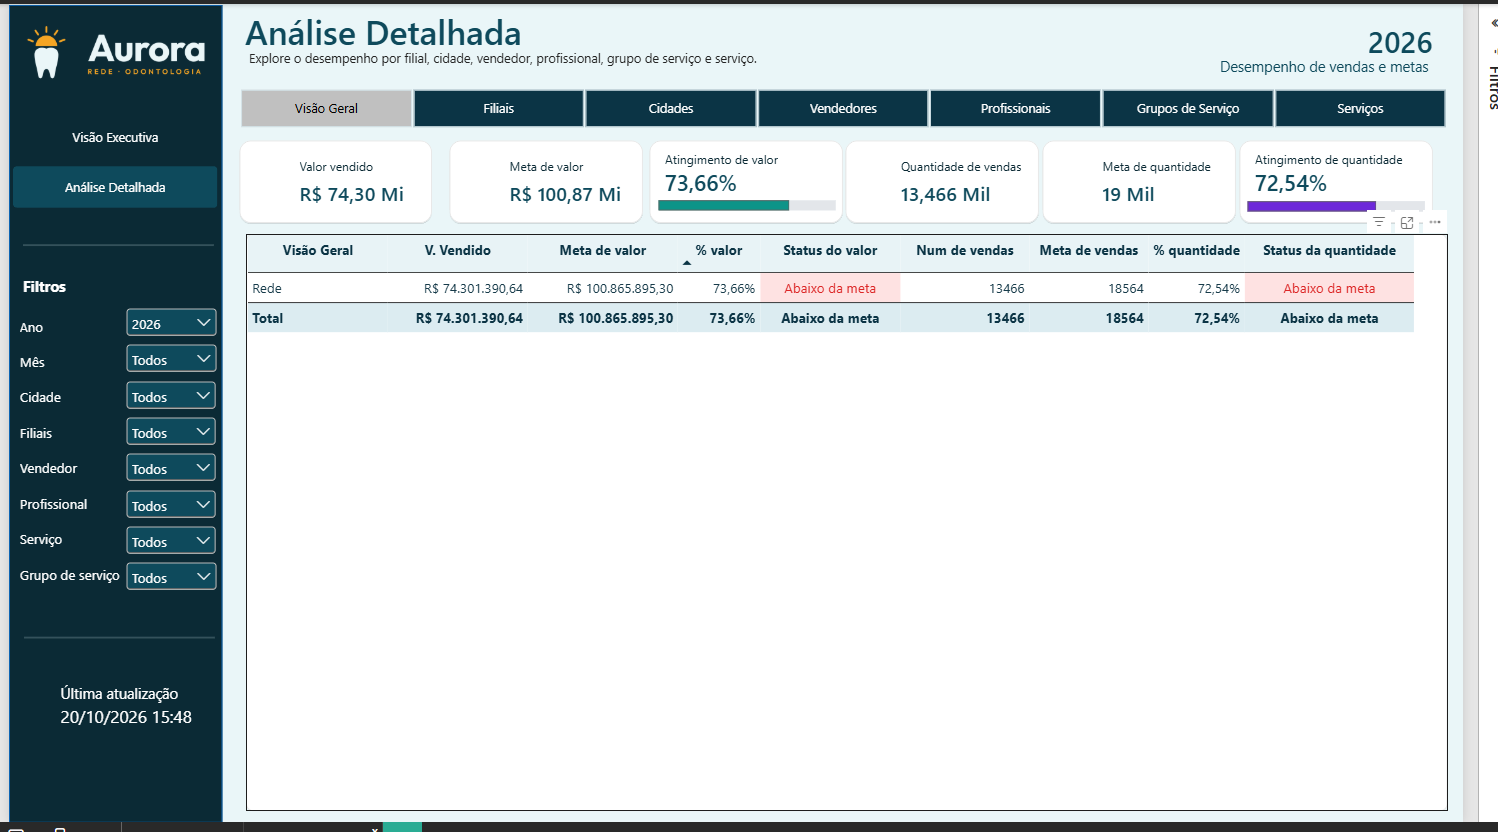
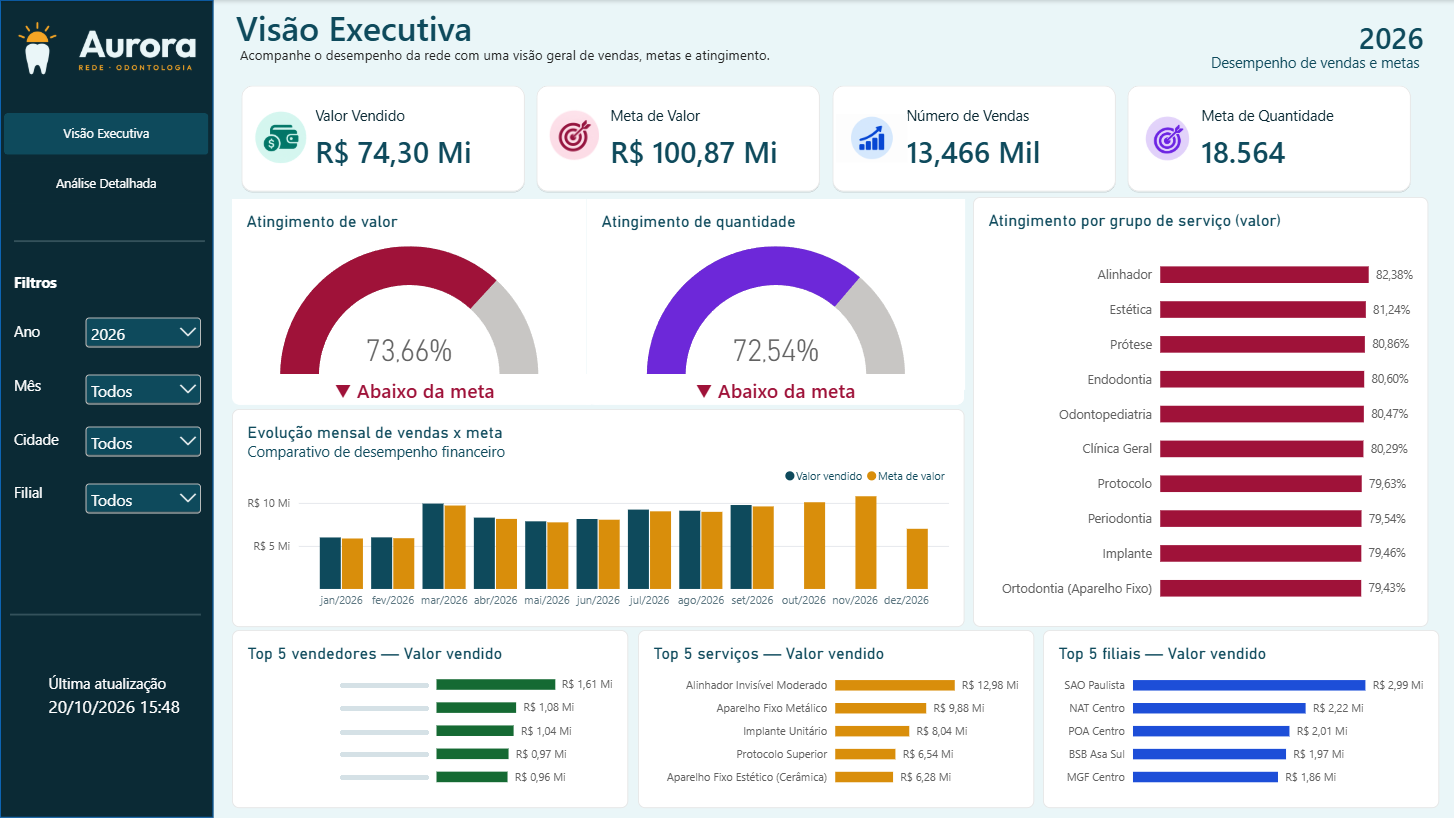
Expand Aurora bootcamp portfolio case study

Changed region(s): [[0.0, 0.0, 1.0, 1.0], [0.2166, 0.5807, 0.6499, 0.7335]]

diff --git a/projects.js b/projects.js
@@ -2,7 +2,7 @@ const cards = [
 ['orcamento','Petrobras','Acompanhamento orçamentário','Budget monitoring','Power BI para comparar gastos planejados, realizados e projetados, com recortes por gerência, período e categoria, incluindo viagens e treinamentos.','Power BI report comparing planned, actual and forecast spending by department, period and category, including travel and training.'],
 ['integral','React · Node.js · JavaScript · Electron','Integral Clínica','Integral Clínica','Aplicação desktop para cadastro de pacientes, prontuário, agenda com gestão dos atendimentos, estoque e controle de receitas, despesas e pendências.','Desktop application for patient registration, medical records, appointment management, inventory, and tracking income, expenses and outstanding payments.'],
 ['comercial','Power BI · Integrasa','Desempenho comercial','Sales performance','Estudo para uma candidatura, com dados fictícios. Analisa adesões versus metas, ticket mensal e conversão e custo de aquisição por canal pago.','Recruitment case study using synthetic data. Tracks new contracts against targets, average monthly contract value, conversion and acquisition cost by paid channel.','integrasa.png'],
-['aurora','Power BI · Educa Dados','Aurora | Bootcamp','Aurora | Bootcamp','Projeto educacional com visão executiva de vendas e metas e análise por filial, cidade, vendedor, profissional e serviço.','Educational case study featuring an executive sales and targets dashboard and breakdowns by branch, city, salesperson, practitioner and service.','aurora.png']
+['aurora','Power BI · DAX · EducaDados','Projeto Aurora | Desafio EducaDados','Project Aurora | EducaDados Bootcamp','Desafio de Power BI para acompanhar vendas e metas de uma rede odontológica. Modelei os dados e criei medidas em DAX para comparar o valor e a quantidade de vendas com as metas. A Visão Executiva reúne indicadores, evolução mensal e rankings. A Análise Detalhada permite investigar desvios por filial, cidade, vendedor, profissional, grupo de serviço e serviço.','Power BI bootcamp project for tracking sales and targets across a dental care network. I modeled the data and built DAX measures to compare sales revenue and volume against targets. The Executive Overview brings together KPIs, monthly trends and rankings. The Detailed Analysis page lets users investigate gaps by branch, city, salesperson, practitioner, service group and service.']
 ];
 const lang = new URLSearchParams(location.search).get('lang') === 'en' ? 'en' : 'pt';
 const en = lang === 'en';
@@ -20,6 +20,10 @@ const galleries = {
     ['integral-inicio.png', 'Visão geral', 'Overview'],
     ['integral-agenda.png', 'Agenda', 'Appointments'],
     ['integral-financeiro.png', 'Financeiro', 'Finance']
+  ],
+  aurora: [
+    ['aurora.png', 'Visão Executiva', 'Executive Overview'],
+    ['aurora-analise-detalhada.png', 'Análise Detalhada', 'Detailed Analysis']
   ]
 };
 for (const [id, tag, ptTitle, enTitle, ptDesc, enDesc, image] of cards) {
@@ -31,6 +35,11 @@ for (const [id, tag, ptTitle, enTitle, ptDesc, enDesc, image] of cards) {
   if (id === 'integral') {
     const note = document.createElement('p');
     note.textContent = en ? 'Illustrative screens with fictional data.' : 'Telas ilustrativas com dados fictícios.';
+    article.append(note);
+  }
+  if (id === 'aurora') {
+    const note = document.createElement('p');
+    note.textContent = en ? 'Screenshots from the bootcamp report. Salesperson names are hidden.' : 'Capturas do relatório do bootcamp. Os nomes dos vendedores foram ocultados.';
     article.append(note);
   }
   const gallery = document.createElement('div');

diff --git a/projects.html b/projects.html
@@ -8,5 +8,5 @@
 .gallery{display:grid;grid-template-columns:repeat(auto-fit,minmax(min(100%,240px),1fr));gap:16px}.gallery a{align-self:start}.gallery img{aspect-ratio:16/10;object-fit:contain;background:#edf2f4}article:focus{outline:2px solid #217282;outline-offset:3px}</style>
 <header><nav aria-label="Portfolio"><a href="./">← Portfólio / Portfolio</a><a href="?lang=pt">Português</a><a href="?lang=en">English</a></nav><h1></h1><p id="intro"></p></header>
 <main></main>
-<script src="projects.js?v=gallery2" defer></script>
+<script src="projects.js?v=gallery3" defer></script>
 </html>
